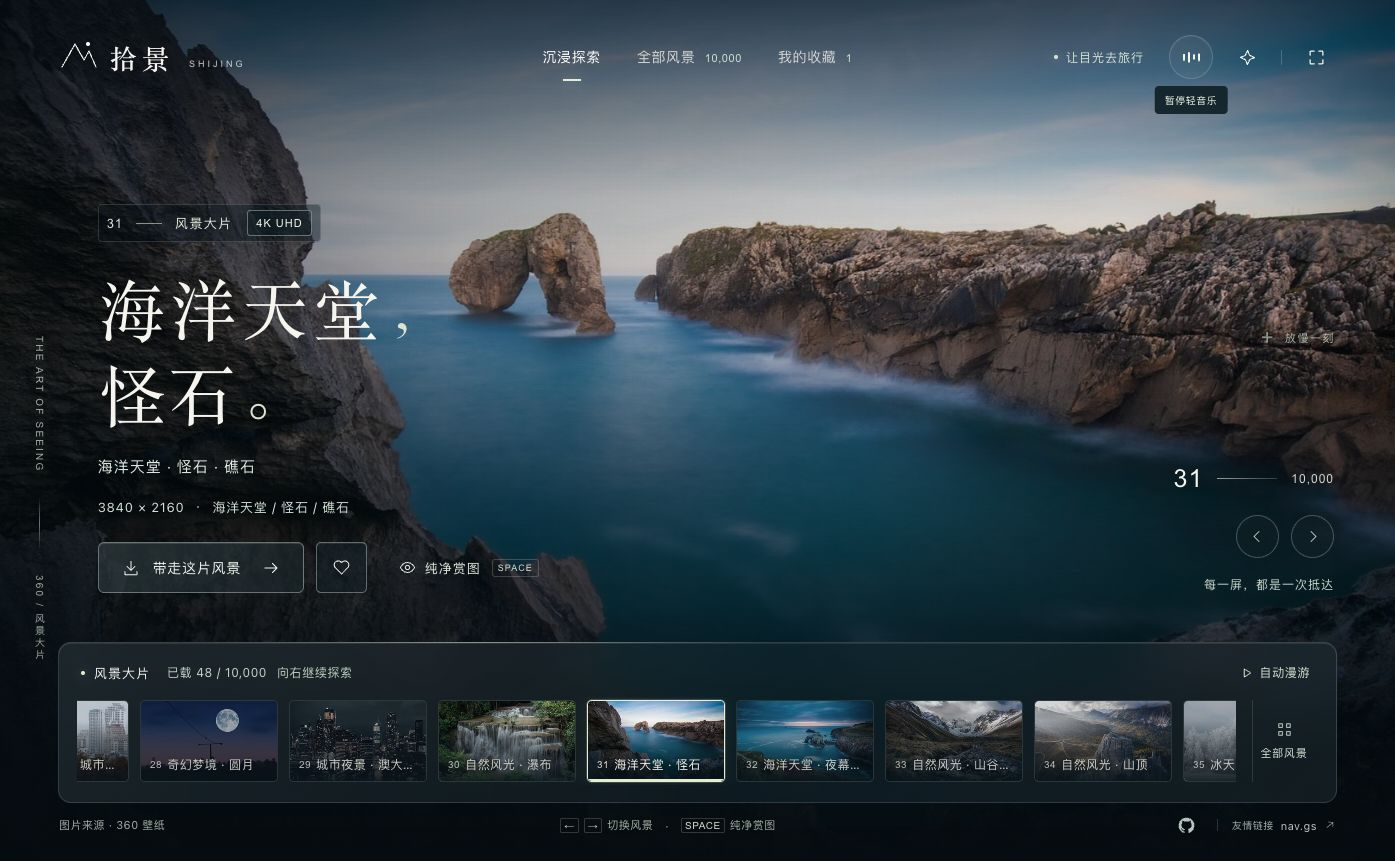
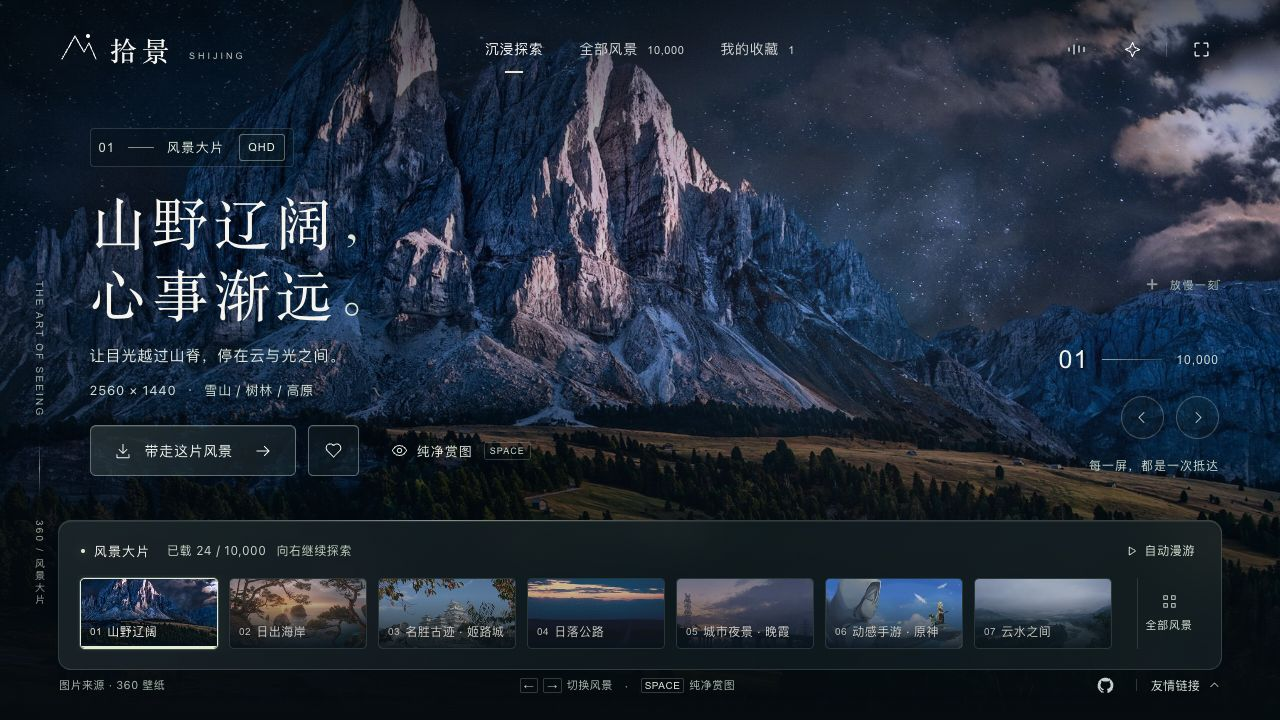
docs: prepare public README and third-party notices

diff --git a/README.md b/README.md
@@ -1,24 +1,23 @@
 # Stillscape · 拾景
 
-**A quiet place for your screen.**
+以风景为中心的沉浸式壁纸浏览网站。
 
-一个以图片为中心的沉浸式壁纸网站。全屏风景、镜头缓动与柔和光影，配合真实图库、分类浏览、下载、本地收藏与可开关的背景音乐。
+Stillscape 将全屏影像、缓动转场与柔和光影结合，提供分类浏览、连续探索、壁纸下载、本地收藏和可选背景音乐。项目使用原生 HTML、CSS 与 JavaScript 构建界面，通过轻量 Node.js 服务接入第三方图库，无数据库和账号系统。
 
 ![Stillscape 预览](docs/preview.png)
 
-## 功能
+## 功能特性
 
-- 全屏图片、渐变转场、指针光影、纯净赏图与自动漫游。
-- 360 壁纸分类分页、Bing 近期每日图片；接近列表末尾自动续载。
-- 首次打开即显示等高缩略图骨架，图片加载后淡入；图库固定弹窗，续载保留当前选择、焦点与滚动状态。
-- 原图下载与适配尺寸下载，保留图片来源。
-- 浏览器本地收藏与已加载图片搜索。
-- 背景音乐默认关闭，点击才加载；支持循环、暂停续播和淡入淡出。
-- 手机布局、键盘操作与系统“减少动态效果”设置。
+- **沉浸浏览**：全屏风景、镜头缓动、指针光影、纯净赏图与自动漫游。
+- **多来源图库**：接入 360 壁纸分类及 Bing 每日图片，支持分页浏览与接近末尾自动续载。
+- **稳定加载**：等高骨架屏、缩略图预览、高清图淡入；续载保留当前选择、键盘焦点及滚动位置。
+- **下载与收藏**：提供来源原图和适配分辨率下载；收藏保存在当前浏览器。
+- **轻音乐**：默认关闭，用户点击后加载；支持循环播放、暂停续播及音量淡入淡出。
+- **多端操作**：适配桌面与手机，支持键盘快捷键，并遵循系统“减少动态效果”设置。
 
-## 快速运行
+## 快速开始
 
-需要 **Node.js 22 或更新版本**。运行网站无需第三方运行依赖。
+需要 **Node.js 22 或更高版本**。直接运行源码无需安装第三方运行时依赖。
 
 ```sh
 git clone https://github.com/zcjunblog/stillscape.git
@@ -26,9 +25,9 @@ cd stillscape
 npm start
 ```
 
-打开 [http://127.0.0.1:4178](http://127.0.0.1:4178)。
+访问 [http://127.0.0.1:4178](http://127.0.0.1:4178)。
 
-## 开发与构建
+开发、测试与生产构建：
 
 ```sh
 npm ci
@@ -37,52 +36,104 @@ npm run build
 npm run preview
 ```
 
-`dist/shijing/` 是精简运行目录，可直接执行 `node server.mjs`。开发时刷新浏览器即可读取前端修改；修改服务端后需重启。
+| 命令 | 说明 |
+| --- | --- |
+| `npm start` | 运行源码版本；前端修改后刷新即可，服务端修改后需重启 |
+| `npm test` | 执行 API、缓存、下载、分页、加载状态及音乐等自动化测试 |
+| `npm run build` | 生成压缩、资源指纹和 Brotli/Gzip 文件 |
+| `npm run preview` | 运行 `dist/shijing/` 中的生产构建 |
 
-GitHub Actions 会运行测试和构建。测试覆盖 API 参数、缓存、上游错误、下载限制、分页选中状态、音乐开关及音频范围请求。
+仓库中的 GitHub Actions 工作流会在推送和 Pull Request 时执行测试与构建。
 
 ## 部署
 
+推荐先构建，再部署生成的 `dist/shijing/` 目录。该目录包含运行所需的前端资源与 Node.js 服务文件，无需安装生产依赖。
+
 ```sh
-HOST=0.0.0.0 PORT=4178 npm start
+npm ci
+npm run build
+cd dist/shijing
+HOST=0.0.0.0 PORT=4178 node server.mjs
 ```
 
-在 Node 服务前配置 HTTPS 反向代理。网站需要服务端代理旧版 360 接口，**不能仅上传到 GitHub Pages 或纯静态托管**。发布版 JS/CSS 已压缩并带内容指纹，提供预压缩 Brotli/Gzip；静态资源支持 ETag / 304，音频支持字节范围请求。
+使用进程管理工具维持服务运行，并在前方配置域名、HTTPS 与反向代理。默认监听地址为 `127.0.0.1`，可通过 `HOST` 和 `PORT` 调整。
 
-## 打开速度与本地缓存
+**本项目需要 Node.js 服务，不能仅部署到 GitHub Pages 等纯静态托管平台。** 服务端负责第三方 API 转发、缓存、数据标准化与下载校验；前端与 API 使用同一来源。
 
-- 发布时使用 `npm run build` 生成的 `dist/shijing/`；`npm run preview` 可直接查看压缩版。源码模式 `npm start` 适合开发。
-- JS、CSS、加载背景与音乐采用内容指纹地址，浏览器可缓存一年；文件内容改变后自动产生新地址。HTML 每次重新验证，避免一直使用旧入口。
-- HTML、JS、CSS 预生成 `.br` / `.gz`，服务端按浏览器支持协商；服务端复用文件与压缩结果，源码变化会使内存缓存失效。API JSON 同样支持 Brotli / Gzip。
-- 分类和已浏览页面元数据保存在本机：分类 1 小时、360 页面 5 分钟、Bing 页面 15 分钟，最多 12 条且序列化后小于约 600 KB。过期会重新请求；损坏或写入失败不影响浏览，也不会清除收藏。
-- 切图时复用最近解码的大图：桌面最多 8 张、手机最多 4 张；背景顺序预取相邻图片，指针停留或键盘聚焦缩略图时提前准备。开启省流模式或 2G 网络时停止自动预取。
-- 随机跳转到未准备的大图时，优先显示已有缩略图，再淡入高清图；快速连续选择时，过时的图片不会覆盖当前选择。高清失败可重试，原图下载尺寸保持不变。
-- 壁纸文件仍遵循来源 CDN 的浏览器缓存；7 MB 音乐只在点击后加载，不提前下载整段音频。
-- 页面界面文字禁止拖选，搜索框仍可正常编辑与复制粘贴。
+## 项目结构
 
-本地文件体积和 localhost 验证不等同于公网性能；域名、HTTPS、反向代理和真实网络的首屏指标仍需上线测量。
+```text
+.
+├── index.html              # 页面结构与 SVG 图标
+├── style.css               # 视觉、响应式布局与动效
+├── app.js                  # 浏览、收藏、预加载和音乐交互
+├── api.mjs                 # 图库适配、数据缓存与下载代理
+├── server.mjs              # HTTP 服务、压缩与静态资源缓存
+├── build.mjs               # 生产构建
+├── assets/                 # 加载背景与可选背景音乐
+├── docs/preview.png        # 界面预览
+├── test/                   # 自动化测试
+├── THIRD_PARTY.md          # 第三方来源与素材声明
+└── LICENSE                 # 应用代码的 MIT 许可证
+```
 
-## 数据接口
+## 接口与数据说明
 
-| 接口 | 用途 |
+以下路径由本项目的 Node.js 服务提供：
+
+| 路径 | 用途 |
 | --- | --- |
-| `/api/categories` | 360 分类，缓存 1 小时 |
-| `/api/wallpapers?category=9&start=0&count=24` | 分类分页，每次最多 48 张，缓存 5 分钟 |
-| `/api/bing?start=0&count=8` | Bing 近期图片，当前最多 15 天，缓存 15 分钟 |
-| `/api/download?url=...&size=original` | 来源原图或适配尺寸，仅允许指定图片域名 |
+| `/api/categories` | 获取 360 壁纸分类，缓存 1 小时 |
+| `/api/wallpapers?category=9&start=0&count=24` | 按分类分页，每次最多 48 张，缓存 5 分钟 |
+| `/api/bing?start=0&count=8` | 获取 Bing 近期每日图片，缓存 15 分钟 |
+| `/api/download?url=...&size=original` | 下载来源原图或适配尺寸，仅接受允许的图片来源 |
 
-360 分类样本主要是旧图库，数据时效取决于上游；不承诺持续更新。首页首批请求 24 张，继续浏览会接续分页。搜索仅筛选当前已加载图片。收藏保存在当前浏览器，不提供账号同步。
+首页首批加载 24 张，继续浏览会自动请求后续页面。360 图库内容及更新频率取决于上游；Bing 当前最多浏览近期 15 天。搜索仅筛选当前已加载图片。
 
-接口参考 [mengkunsoft/wallpaper](https://github.com/mengkunsoft/wallpaper)，页面与交互独立实现。
+本项目使用第三方可访问接口，接口稳定性、内容数量与持续可用性由上游决定。项目不提供壁纸内容授权，也不保证第三方接口具有服务等级承诺。
 
-## 音乐与链接
+## 性能与本地数据
 
-音频使用用户指定的[原始 MP3](https://static.yiyitu.net/wp-content/uploads/2020/09/1609253354fcdf.mp3)，在项目中保存为 `assets/ambient-music.mp3`。约 15 分 16 秒、7 MB，保留原始文件；仅点击音乐开关后加载，不计入首页必需资源。
+- 生产构建压缩 HTML 引用的 JS/CSS，并为静态资源生成内容指纹及 Brotli/Gzip 文件；HTML 重新验证，带指纹资源可长期缓存。
+- 分类和图库页面元数据使用有期限的浏览器本地缓存，最多保留 12 条记录；缓存损坏或存储不可用时仍可继续浏览。
+- 复用最近解码的图片，顺序预加载相邻风景，并在指针停留或键盘聚焦时准备目标图片；开启省流模式或慢速网络时减少自动预取。
+- 未准备好的大图优先呈现可用缩略图，再淡入高清图；骨架屏在首次绘制时预留缩略图位置。
+- 背景音乐约 7 MB，仅在点击开关后请求，支持音频字节范围加载。
 
-底部 GitHub 图标链接本仓库；“友情链接”可展开多个站点，目前显示 [简约导航](https://nav.gs/) 和 [关于我们](https://jkhcz.com/)，界面只展示中文名称。支持键盘展开、Escape 收起和点击外部关闭。
+收藏与图库元数据保存在当前浏览器，不提供跨设备同步。图片显示与下载会访问第三方来源；本地缓存不代表图库可以完整离线使用。公网首屏速度取决于部署环境、网络及来源 CDN。
 
-增加站点时，在 `index.html` 的 `#friend-links .friend-panel` 内追加 `.friend-entry` 链接即可；列表超出高度会内部滚动，页脚入口宽度保持不变。
+## 项目参考与致谢
 
-## 许可与素材
+### 图库接口参考
 
-应用代码采用 [MIT License](LICENSE)。壁纸、预览截图中的摄影、音乐等第三方素材不包含在代码许可内，详见 [THIRD_PARTY.md](THIRD_PARTY.md)。
+本项目参考了 [mengkunsoft/wallpaper](https://github.com/mengkunsoft/wallpaper) 对 **360 壁纸分类、分类分页接口及 Bing 每日图片接口的使用方式**，感谢原作者对接口调用思路的整理与公开分享。具体参考可见其 [API 实现](https://github.com/mengkunsoft/wallpaper/blob/master/api/index.php)。
+
+Stillscape 的页面布局、视觉样式、动画、交互与 Node.js 服务由本项目独立实现。参考项目的版权与其自身的使用要求归原作者所有，本仓库的 MIT 许可证不适用于参考项目。
+
+### 自有设计 Skill
+
+网站的视觉设计、Motion 动效、光影效果和界面打磨使用作者自有的 **「官网设计」Skill（`guanwang`，本项目早期以 `website-ui-craft` 名称使用）**，配合 Codex 完成设计与开发。
+
+该 Skill 计划作为独立项目发布到 GitHub。**当前尚未提供公开仓库链接，开源后会在本节补充正式地址。** Skill 本体未包含在本仓库中，其后续许可与文档以独立仓库为准。
+
+<!-- SKILL_REPOSITORY_URL: TODO — 官网设计 Skill 开源后，在此补充正式 GitHub 链接。 -->
+
+## 自定义
+
+- **默认分类、文案与交互**：修改 `app.js`；布局与视觉样式位于 `index.html`、`style.css`。
+- **背景音乐**：替换 `assets/ambient-music.mp3`，更新 [第三方素材声明](THIRD_PARTY.md)，重新构建。更换文件名时同步修改 `app.js` 与 `build.mjs`。
+- **友情链接**：在 `index.html` 的 `#friend-links .friend-panel` 中追加 `.friend-entry` 链接。默认包含 [简约导航](https://nav.gs/) 和 [关于我们](https://jkhcz.com/)。
+
+## 版权与许可
+
+Copyright © 2026 [zcjunblog](https://github.com/zcjunblog)。应用代码与项目原创文档采用 [MIT License](LICENSE)；复制、修改或分发时请保留许可证要求的版权及许可声明。
+
+**MIT 许可证不覆盖壁纸、摄影、背景音乐、预览截图中的第三方影像以及第三方名称或标识。** 这些内容的权利归各自权利人所有，下载或展示不构成额外的使用授权。
+
+仓库中的音乐来自项目维护者指定的外部地址，目前未核实曲名、作者及独立的再分发许可，本项目不将其声明为原创或免版权音乐。使用、再分发或商用第三方素材前，请确认相应权利与许可。详细来源、文件范围及处理方式见 [THIRD_PARTY.md](THIRD_PARTY.md)。
+
+如权利人对本项目展示或包含的素材有异议，可通过 [GitHub Issues](https://github.com/zcjunblog/stillscape/issues) 联系维护者，并提供相关文件、来源与权属信息，以便核实并移除或替换。请勿在公开 Issue 中提交私人证明材料。
+
+## 反馈与贡献
+
+欢迎通过 [Issues](https://github.com/zcjunblog/stillscape/issues) 报告问题，或提交 Pull Request。反馈界面问题时，请尽量提供浏览器、设备尺寸、复现步骤及截图；提交代码前请运行 `npm test` 与 `npm run build`。

diff --git a/THIRD_PARTY.md b/THIRD_PARTY.md
@@ -1,19 +1,41 @@
-# 第三方来源
+# 第三方来源与素材声明
 
-MIT 许可适用于本项目应用代码，不为下列素材授予额外权利。
+本文件记录 Stillscape 使用的参考资料与第三方素材。仓库中的 [MIT License](LICENSE) 适用于本项目应用代码与原创文档，不为以下第三方作品、服务或标识授予额外权利。
 
-## 壁纸与摄影
+## 1. 参考项目
 
-- 360 壁纸：`wallpaper.apc.360.cn`，图片来自其返回的 `qhimg.com` CDN。
-- Bing 每日图片：`cn.bing.com`，界面保留返回的署名信息。
-- 本地加载背景 `assets/scene-12.jpg` 与预览截图中的摄影均来自图库。其权利归原作者所有。
-- 接口参考：https://github.com/mengkunsoft/wallpaper 。未复制其页面代码或设计。
+- 项目：[mengkunsoft/wallpaper](https://github.com/mengkunsoft/wallpaper)
+- 参考范围：[API 实现](https://github.com/mengkunsoft/wallpaper/blob/master/api/index.php) 中 360 壁纸分类、分类分页与 Bing 每日图片的接口调用方式。
+- 本项目的界面与 Node.js 服务独立实现；未将参考项目的页面代码或 PHP 代理作为项目文件引入。
+- 原项目版权及其 README 中的使用要求归原作者所有；本仓库 MIT 许可证不覆盖原项目。
 
-## 背景音乐
+## 2. 壁纸与摄影
 
-- 文件：`assets/ambient-music.mp3`
-- 原始地址：https://static.yiyitu.net/wp-content/uploads/2020/09/1609253354fcdf.mp3
-- 由项目所有者指定；保留原始文件，未重编码。
-- 来源未提供曲名、作者和独立的再分发许可声明；本项目不宣称该音频原创或适用 MIT。
+| 来源或文件 | 使用说明 |
+| --- | --- |
+| 360 壁纸：`wallpaper.apc.360.cn` | 获取分类及图片元数据，图片来自接口返回的 `qhimg.com` CDN |
+| Bing：`cn.bing.com` | 获取近期每日图片，界面保留接口返回的署名或版权信息 |
+| `assets/scene-12.jpg` | 来自 360 壁纸图库，作为首次连接图库时的本地背景 |
+| `docs/preview.png` | 本项目界面截图，其中摄影仍归相应权利人所有 |
 
-替换音乐时，同时更新 `app.js`、`build.mjs` 与对应来源说明。使用第三方素材时遵循其原有许可。
+图像的著作权归原作者或其他合法权利人所有。本项目未逐张核实图库图片的独立许可，不宣称这些图片属于公共领域、免版权素材或可任意商用。接口可访问性与图片使用许可应分别确认；请按具体素材的许可使用。
+
+## 3. 背景音乐
+
+- 项目文件：`assets/ambient-music.mp3`。
+- 来源：[原始 MP3 文件](https://static.yiyitu.net/wp-content/uploads/2020/09/1609253354fcdf.mp3)。
+- 由项目维护者指定，仓库保留原始音频，未重新编码。
+- 当前未核实曲名、作者及独立的再分发许可；本项目不宣称该音频为原创、免版权或适用 MIT 许可。
+- 音乐默认关闭，由使用者点击后加载。需要再分发或商用时，请先核实许可，必要时换用已获授权的音频。
+
+更换音频时，请同步更新本文件。文件名改变时还需修改 `app.js` 与 `build.mjs`，并重新生成生产构建。
+
+## 4. 设计 Skill 与开发工具
+
+网站设计与界面打磨使用项目作者自有的「官网设计」Skill（`guanwang`，早期名称 `website-ui-craft`），配合 Codex 完成。该 Skill 计划独立开源，目前未包含在本仓库，其后续链接见 [README 的设计 Skill 说明](README.md#自有设计-skill)。
+
+第三方开发依赖以 `package.json`、`package-lock.json` 记录为准，各依赖遵循其自身许可证。本项目名称以外的第三方名称与标识归各自权利人所有。
+
+## 5. 权利反馈
+
+如您是相关素材的权利人，并对本项目使用方式有异议，请通过 [GitHub Issues](https://github.com/zcjunblog/stillscape/issues) 提供文件位置、来源与权属说明，维护者将核实并移除或替换相关素材。请勿在公开 Issue 中提交私人证明材料。
